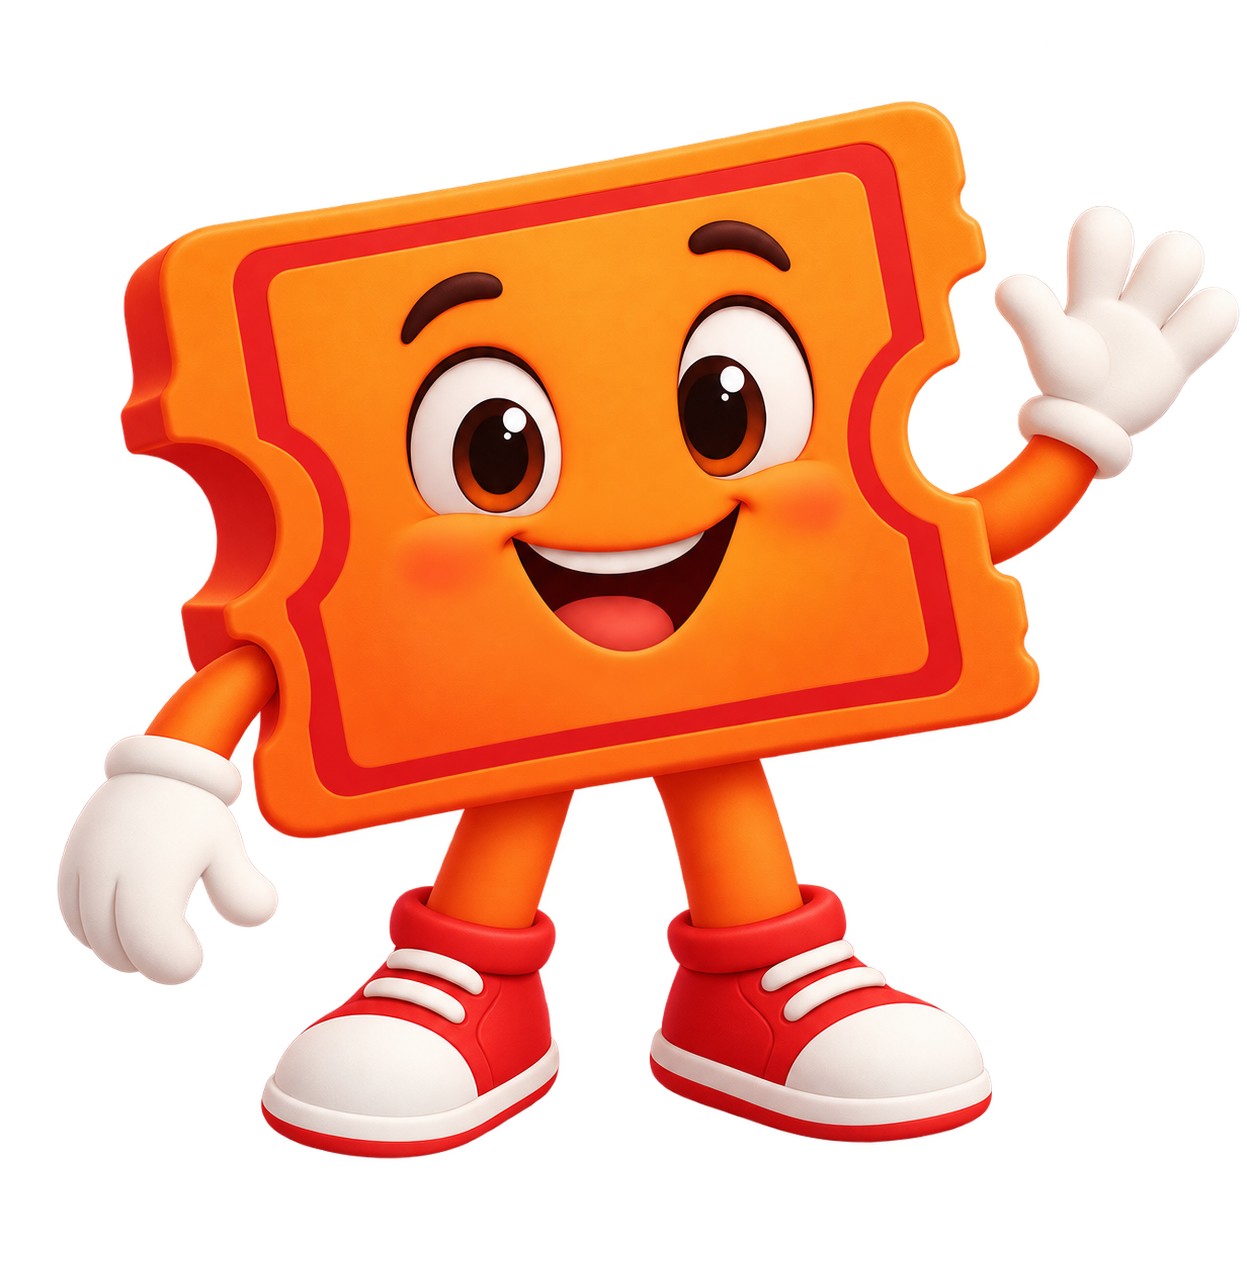
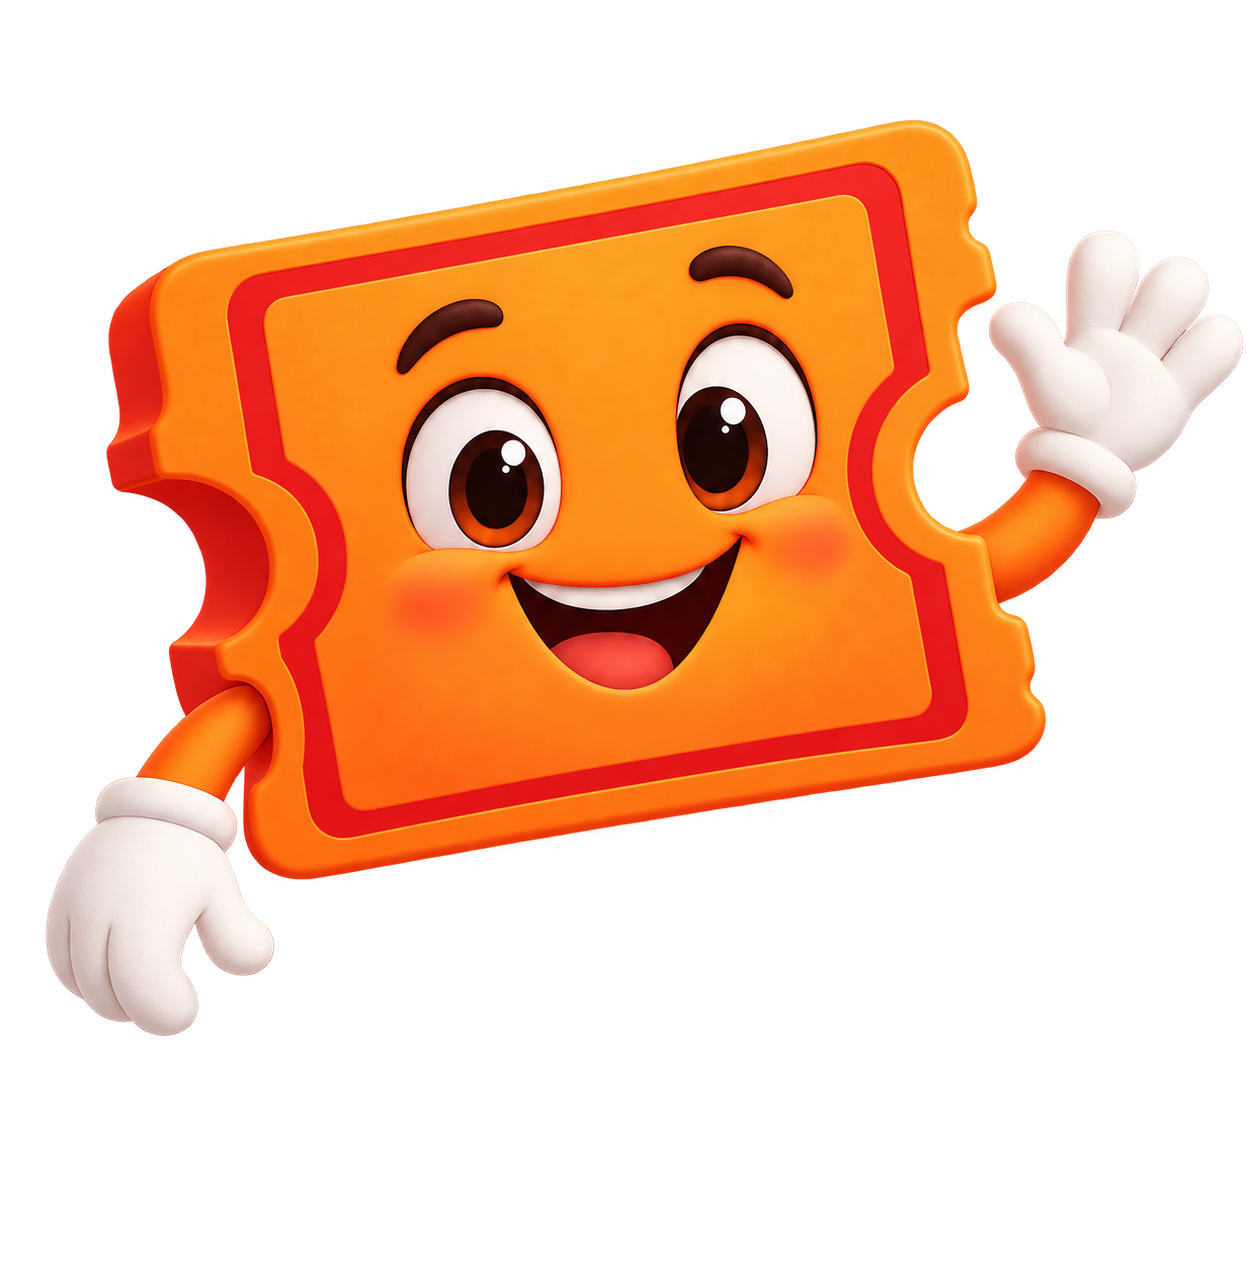
feat: substituir ícone de informação por imagem do mascote no componente Toaster

Changed region(s): [[0.0305, 0.0619, 1.0, 0.9278], [0.8532, 0.1546, 0.8837, 0.2165]]

diff --git a/Frontend/src/components/ui/sonner.tsx b/Frontend/src/components/ui/sonner.tsx
@@ -3,7 +3,6 @@ import {
   Alert02Icon,
   CancelCircleIcon,
   CheckmarkCircle02Icon,
-  InformationCircleIcon,
   Loading03Icon,
 } from "@hugeicons/core-free-icons"
 import { Toaster as Sonner, type ToasterProps } from "sonner"
@@ -16,7 +15,7 @@ const Toaster = ({ toastOptions, ...props }: ToasterProps) => {
       className="toaster group"
       icons={{
         success: <HugeiconsIcon icon={CheckmarkCircle02Icon} />,
-        info: <HugeiconsIcon icon={InformationCircleIcon} />,
+        info: <img src="/Mascote.png" alt="" className="size-full scale-125 object-contain" />,
         warning: <HugeiconsIcon icon={Alert02Icon} />,
         error: <HugeiconsIcon icon={CancelCircleIcon} />,
         loading: <HugeiconsIcon icon={Loading03Icon} className="animate-spin" />,
@@ -28,7 +27,7 @@ const Toaster = ({ toastOptions, ...props }: ToasterProps) => {
           toast:
             "group/toast flex w-full items-center gap-4 rounded-3xl border border-black/10 bg-white py-3.5 pr-6 pl-3.5 font-sans text-[#111111] shadow-[0_20px_45px_-18px_rgba(0,0,0,0.45)] sm:w-[var(--width)]",
           icon:
-            "flex size-11 shrink-0 items-center justify-center rounded-full bg-[#111111] text-white [&_svg]:size-5 group-data-[type=error]/toast:bg-[#ED1C24] group-data-[type=success]/toast:bg-emerald-600 group-data-[type=warning]/toast:bg-amber-500",
+            "flex size-11 shrink-0 items-center justify-center rounded-full bg-[#111111] text-white [&_svg]:size-5 group-data-[type=info]/toast:size-14 group-data-[type=info]/toast:bg-transparent group-data-[type=error]/toast:bg-[#ED1C24] group-data-[type=success]/toast:bg-emerald-600 group-data-[type=warning]/toast:bg-amber-500",
           content: "flex min-w-0 flex-col gap-0.5",
           title: "text-sm leading-tight font-extrabold tracking-[0.02em] uppercase",
           description: "text-sm leading-snug text-neutral-600",
